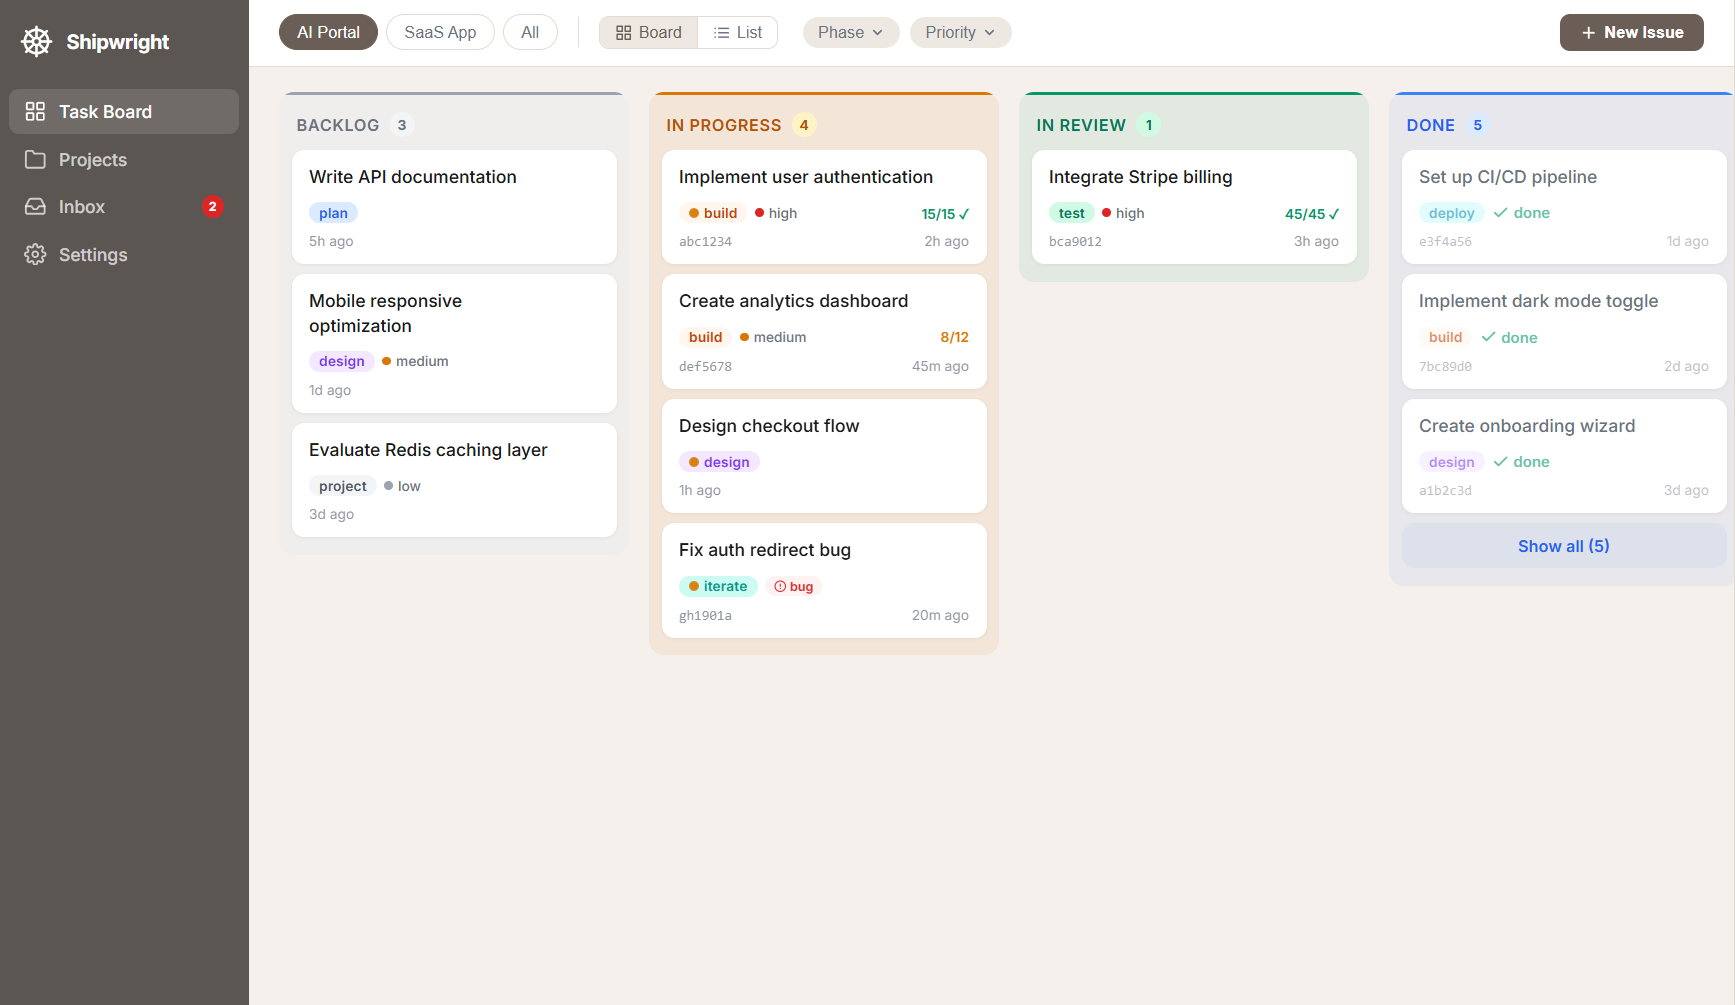
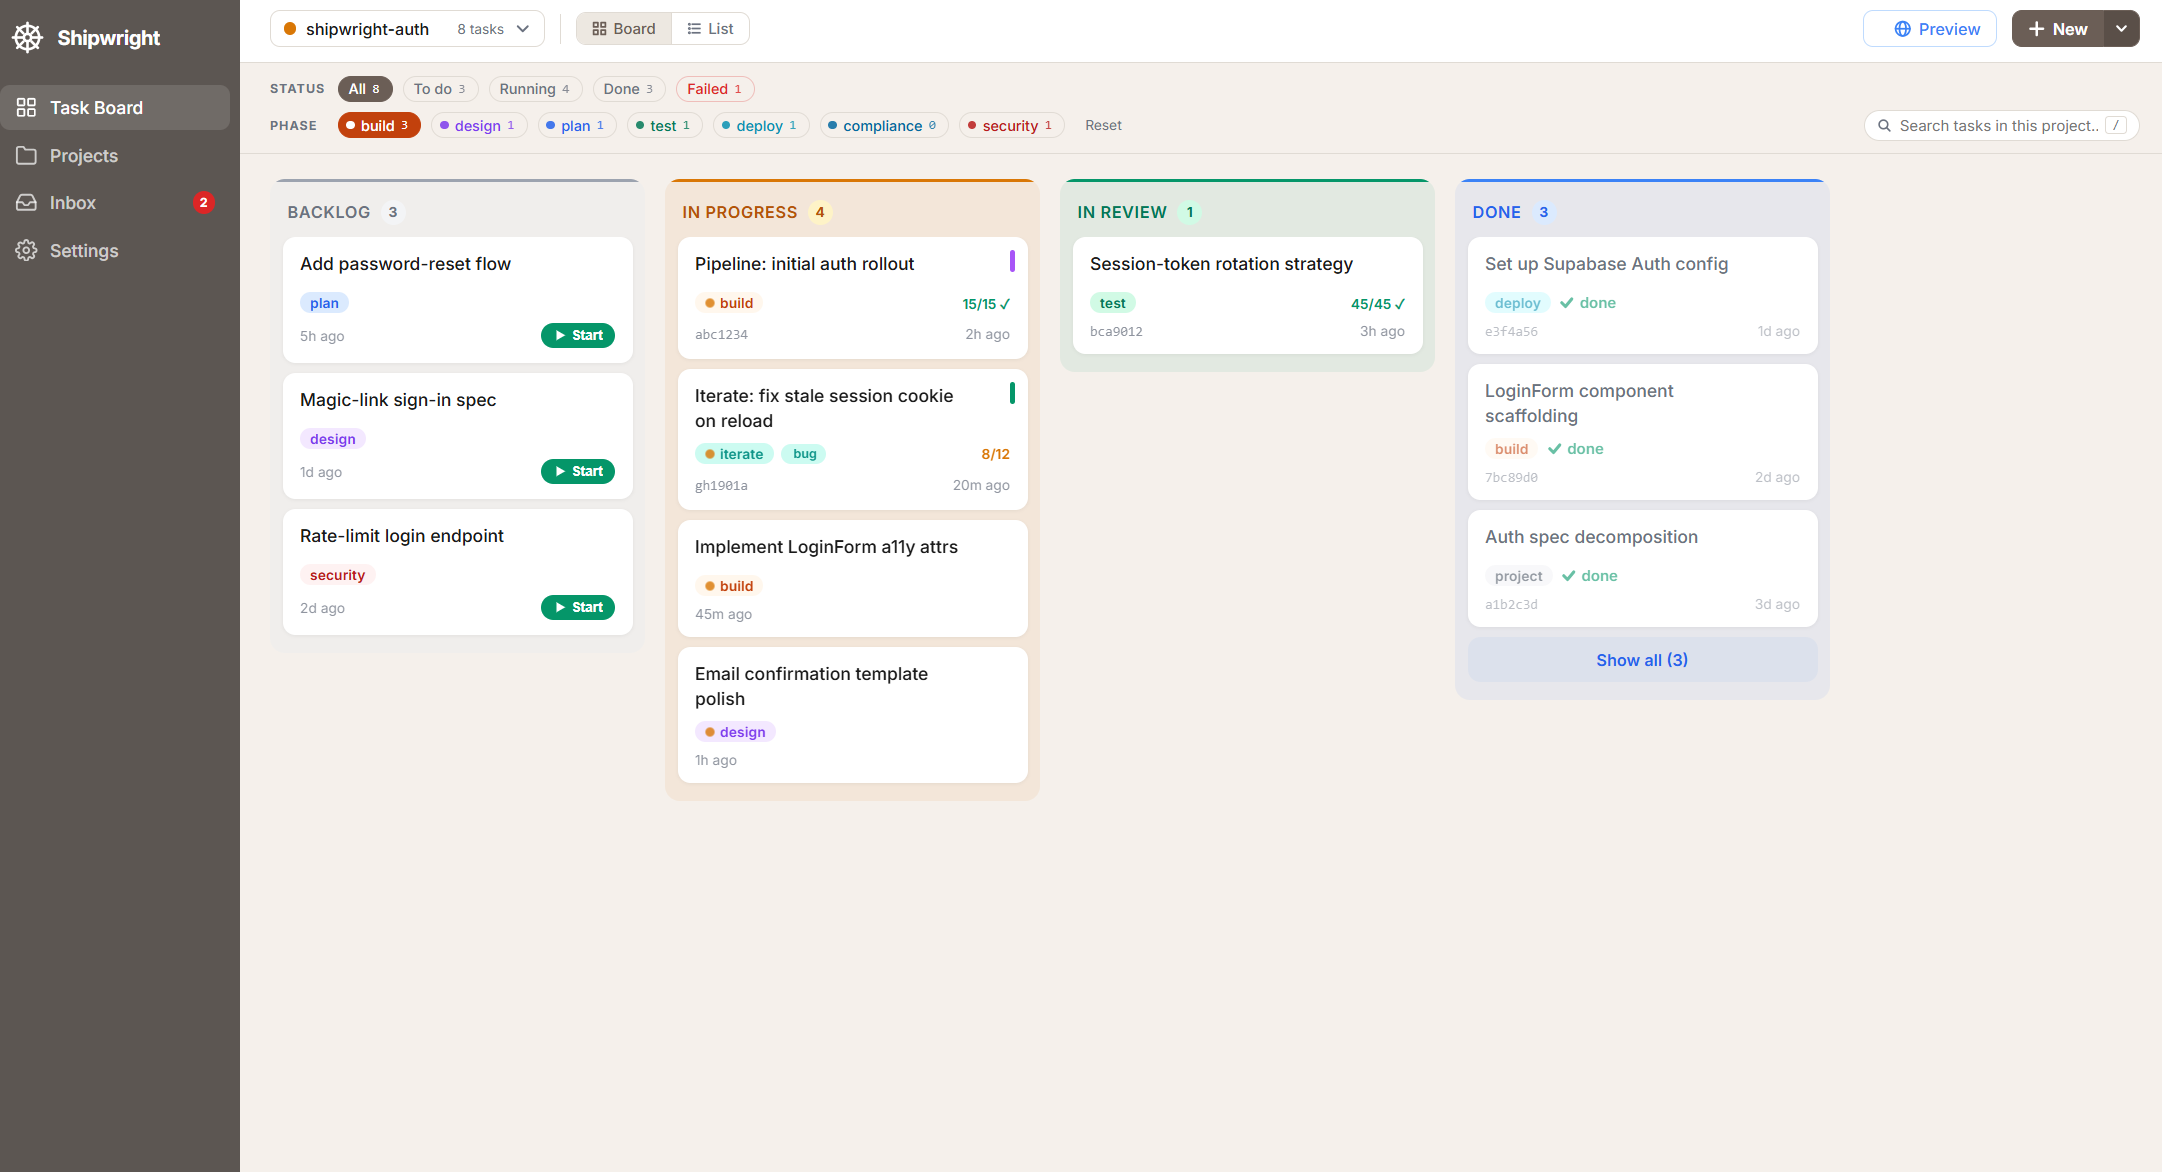
docs: refresh README + guide.md intro for post-pivot Command Center
- Drop "same product, two surfaces" / "spawns claude" language
- Lead with the multi-project kanban + no-window-juggling value
- Fix "live Claude chat" / "task-scoped chat" stale copy
- Add missing shipwright-adopt to guide.md marketplace + shell aliases
- Update Command Center hero screenshots

diff --git a/docs/guide.md b/docs/guide.md
@@ -20,7 +20,7 @@ After the initial build, daily work happens through `/shipwright-iterate` -- com
 
 Every phase emits events into an append-only log. That log is the single source of truth -- and the raw material for audit-ready compliance documentation (traceability matrix, test evidence, SBOM, change history), regenerated automatically as a side effect of every phase completion. Drift that accumulates between sessions (manual edits, force-pushes, content rot that passes mtime checks) is caught on demand via `/shipwright-compliance` — a cross-artifact detective audit across 7 check groups. You get the compliance paperwork that usually costs weeks of manual work as a byproduct of just building the software.
 
-You can drive all of this from the Claude Code VSCode Extension or CLI terminal, or through the **Shipwright Command Center** -- a local web UI with a Kanban board, task-scoped chat, and a global inbox for agent questions. It spawns the same skills under the hood; it's a surface, not a separate product.
+You can drive all of this from the Claude Code VSCode Extension or CLI terminal, or through the **Shipwright Command Center** — a local web UI with a kanban board across every Shipwright task, live transcripts per task, and a global inbox for agent questions. Instead of hunting through terminal windows or VS Code sessions, one place shows where everything stands. When you launch a new pipeline or iterate from the Command Center, it hands you the `claude` command to paste in your own terminal or VS Code Extension. Claude runs there; the Command Center follows the session live.
 
 ### Three ways to use it
 
@@ -28,7 +28,7 @@ You can drive all of this from the Claude Code VSCode Extension or CLI terminal,
 - **Daily iteration** -- `/shipwright-iterate "..."` for every change after the first deploy. Classifies intent, assesses complexity, runs the right amount of process.
 - **Single skill** -- `/shipwright-plan`, `/shipwright-test`, `/shipwright-security`, or any other skill on its own -- even on projects that never used Shipwright before.
 
-All three work from the Claude Code VSCode Extension or CLI terminal, or through the Command Center WebUI.
+All three work from the Claude Code VSCode Extension or CLI terminal directly. The Command Center WebUI layers a multi-project kanban on top — you still run Claude in your own terminal or VS Code Extension, you just stop juggling windows and VS Code sessions to see what's where.
 
 ### What You Get
 
@@ -82,7 +82,7 @@ User Description
   SHIPWRIGHT-ITERATE ....... Classify Intent --> Assess Complexity --> Adaptive Pipeline
 ```
 
-Each phase is a standalone Claude Code plugin. `/shipwright-run` orchestrates the full pipeline for the initial build, `/shipwright-iterate` drives daily changes afterwards, and every single skill can be invoked on its own. Pick the entry point that matches your moment -- from the terminal or from the Command Center WebUI.
+Each phase is a standalone Claude Code plugin. `/shipwright-run` orchestrates the full pipeline for the initial build, `/shipwright-iterate` drives daily changes afterwards, and every single skill can be invoked on its own. Pick the entry point that matches your moment: the terminal or VS Code Extension directly for single-project flow, or the Command Center WebUI when you're tracking multiple projects at once and want one board that says where everything stands.
 
 ### Design Principles
 
@@ -229,7 +229,8 @@ The marketplace approach works in both the VSCode Extension and the CLI. Add the
     "shipwright-changelog@shipwright": true,
     "shipwright-compliance@shipwright": true,
     "shipwright-iterate@shipwright": true,
-    "shipwright-preview@shipwright": true
+    "shipwright-preview@shipwright": true,
+    "shipwright-adopt@shipwright": true
   }
 }
 ```
@@ -264,6 +265,7 @@ shipwright() {
     --plugin-dir ~/shipwright/plugins/shipwright-changelog \
     --plugin-dir ~/shipwright/plugins/shipwright-compliance \
     --plugin-dir ~/shipwright/plugins/shipwright-preview \
+    --plugin-dir ~/shipwright/plugins/shipwright-adopt \
     "$@"
 }
 ```
@@ -285,6 +287,7 @@ function shipwright {
     --plugin-dir $env:USERPROFILE\shipwright\plugins\shipwright-changelog `
     --plugin-dir $env:USERPROFILE\shipwright\plugins\shipwright-compliance `
     --plugin-dir $env:USERPROFILE\shipwright\plugins\shipwright-preview `
+    --plugin-dir $env:USERPROFILE\shipwright\plugins\shipwright-adopt `
     @args
 }
 ```